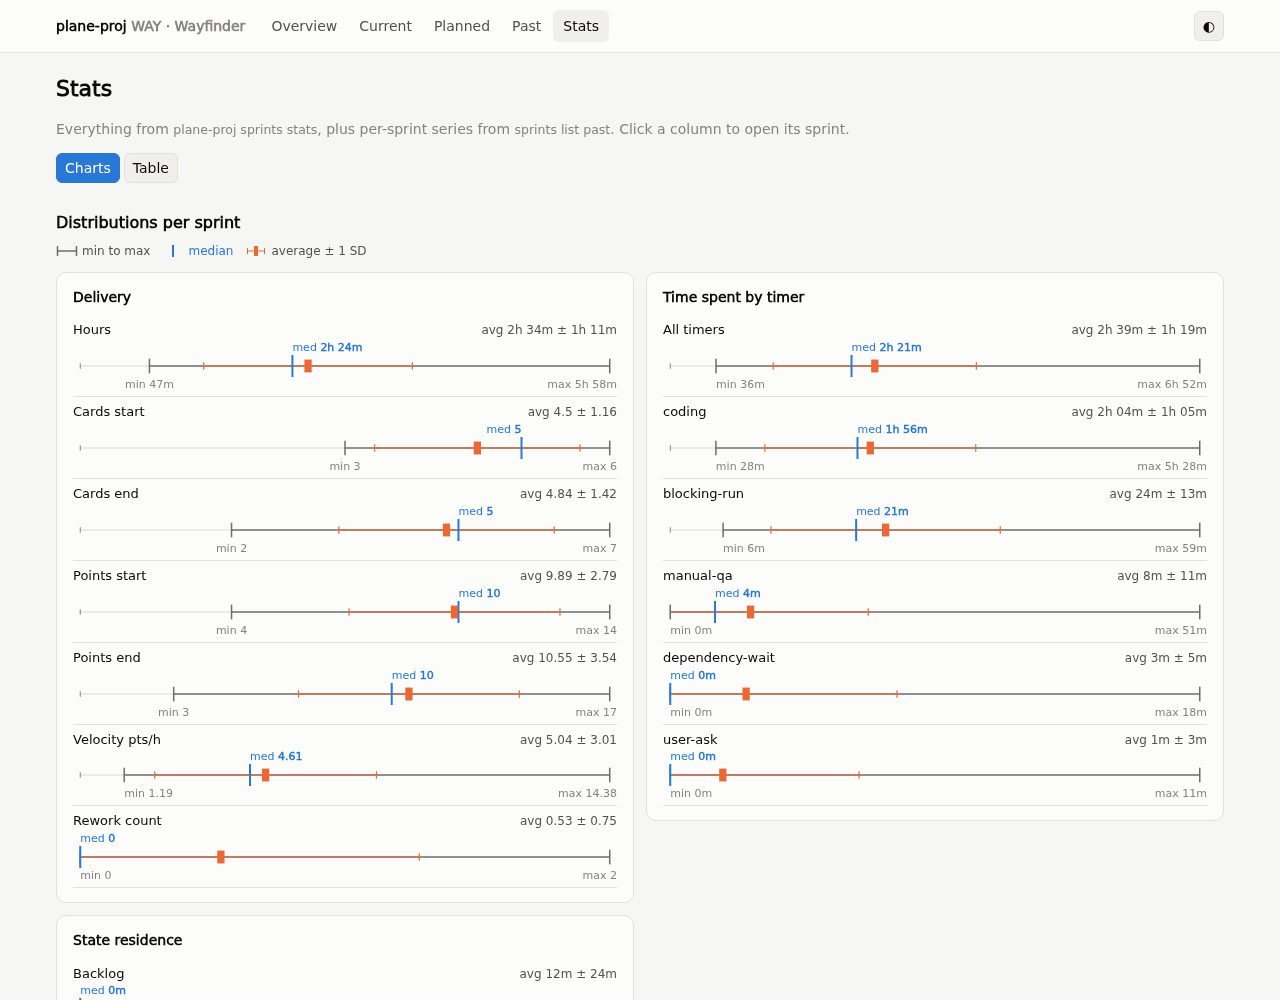
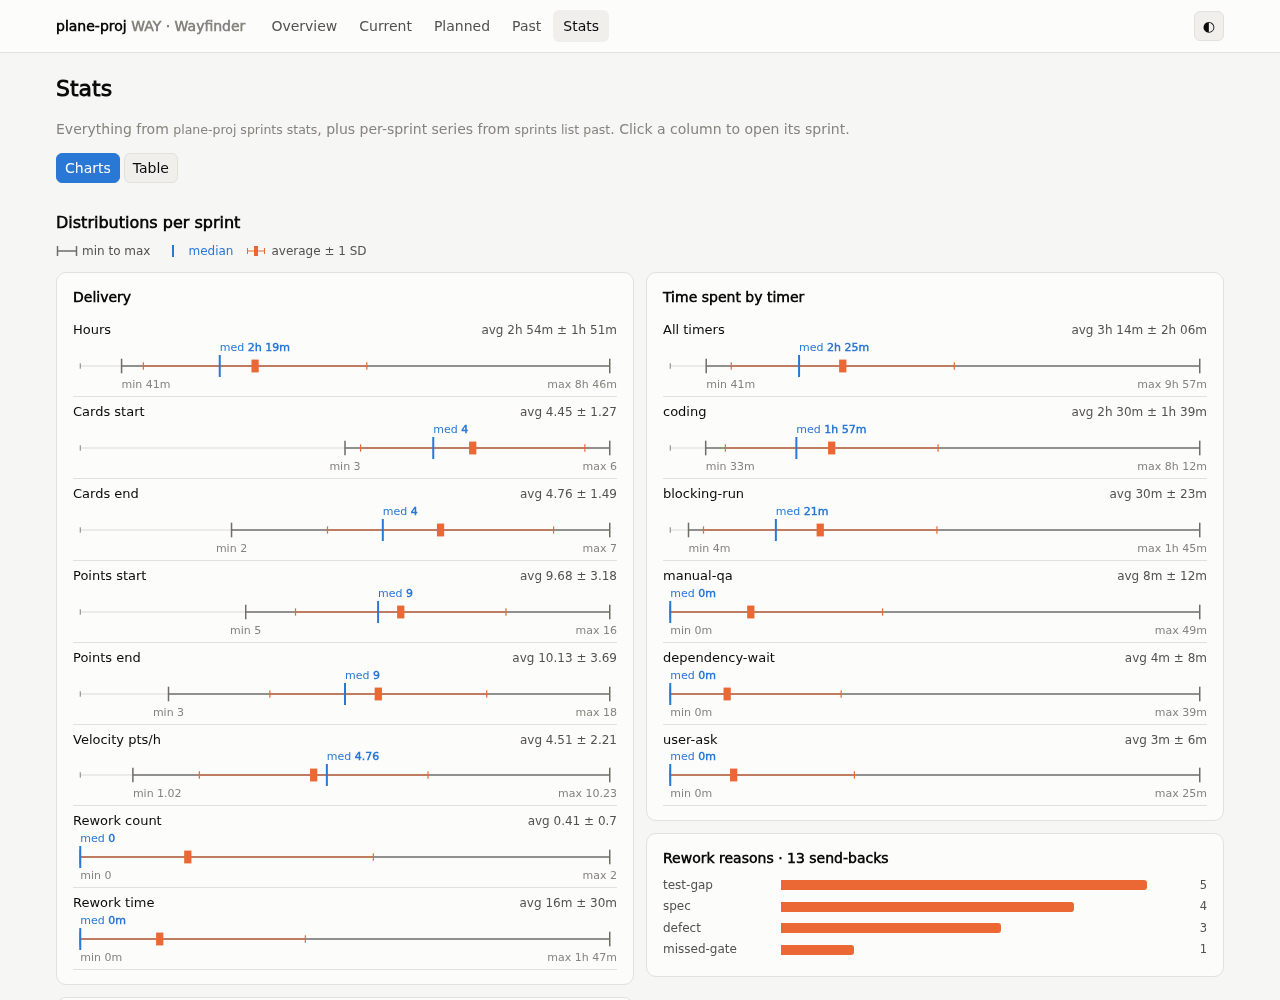
feat: show dependencies and rework cost on the sprint dashboard
The dashboard now surfaces what the new telemetry and dependency reports
measure:

- Current board cards list the unfinished cards they wait on.
- The Planned page has a Dependencies panel that, on request, shows open
  work, the critical path, the speedup ceiling, ready and blocked counts,
  and the longest chain. It runs on request because it reads every
  planned card's relations.
- Current status, past sprint detail, and Stats show rework time and
  reasons; Stats adds a rework time distribution and a reasons panel.

web.make_server now takes a route table; /api/dependencies joins
/api/sprints and /api/version. A page refresh reads blockers only for
current cycles. Screenshots are refreshed from the invented demo
project.

Verification: the web command test covers card blockers, current-only
facts on refresh, and the dependencies route; route tests use the new
table. Every screen rendered against demo data without browser errors.
pytest, ruff check, rumdl check and nix build .#plane-proj pass.
Version 0.21.2.

diff --git a/src/plane_proj/web.html b/src/plane_proj/web.html
@@ -157,6 +157,13 @@ function boot(data) {
   $('#projname').textContent = `${PROJECT} · ${data.project.name}`;
 }
 const cardsFor = s => DATA.cards[s.sprint] || [];
+// Open blockers of a card, shown only while the card itself is unfinished.
+function waitsOn(c) {
+  const open = (c.blocked_by || []).filter(b => !TERMINAL.has(b.state));
+  if (!open.length || TERMINAL.has(c.state)) return '';
+  return `<div class="meta"><span class="flag" data-tip="Blocked until these are Done">waits on ${open.map(b => `${esc(b.ref)} (${esc(b.state)})`).join(', ')}</span></div>`;
+}
+const reasonText = r => Object.entries(r || {}).map(([k, v]) => `${k} ${v}`).join(' · ');
 
 // ===== helpers =====
 const $ = q => document.querySelector(q);
@@ -310,13 +317,13 @@ V.currentOne = s => {
   <div class="board">${STATES.map(st => `<div class="colh"><i style="background:${stC[st]}"></i>${st} <span class="muted">${cards.filter(c => c.state === st).length}</span></div>`).join('')}
     ${STATES.map(st => `<div class="colb">${cards.filter(c => c.state === st).map(c => `<div class="wi" style="border-left-color:${stC[st]}">
       <div class="row"><a class="mono" href="${esc(c.url)}" target="_blank" rel="noopener">${esc(c.ref)}</a><span class="sp"></span>${POINTS ? `<span class="pill">${c.points} pt</span>` : ''}</div>
-      <div>${esc(c.title)}</div></div>`).join('')}</div>`).join('')}</div>
+      <div>${esc(c.title)}</div>${waitsOn(c)}</div>`).join('')}</div>`).join('')}</div>
 
   <h2>Status</h2>
   <div class="grid g4">
     ${POINTS ? `<div class="card kpi"><div class="v">${num(vel, 2)}<span class="muted small"> pts/h</span></div><div class="l">Velocity${MEDV ? ` · median ${num(MEDV, 2)}` : ''}</div>
       ${hbar(vel, Math.max(vel, MEDV || 0) * 1.2 || 1, 'now', 'var(--c1)')}${MEDV ? hbar(MEDV, Math.max(vel, MEDV) * 1.2, 'median', 'var(--muted)') : ''}</div>` : ''}
-    <div class="card kpi"><div class="v">${t.rework_count ?? 0}</div><div class="l">Rework events · ${t.reworked_cards ?? 0} of ${t.rework_observed_cards ?? 0} cards reworked</div></div>
+    <div class="card kpi"><div class="v">${t.rework_count ?? 0}</div><div class="l">Rework events · ${t.reworked_cards ?? 0} of ${t.rework_observed_cards ?? 0} cards reworked${t.rework_minutes ? ` · ${fmtMin(t.rework_minutes)} reworking` : ''}${reasonText(t.rework_reasons) ? `<br>${reasonText(t.rework_reasons)}` : ''}</div></div>
     <div class="card kpi"><div class="v">${fmtMin(active)}</div><div class="l">Active time (In Progress ${fmtMin(t.active_minutes?.['In Progress'])} · Verifying ${fmtMin(t.active_minutes?.['Verifying'])})</div></div>
     <div class="card kpi"><div class="v">${openT.length || 'None'}</div><div class="l">Open timers ${openT.map(([k, v]) => `· ${k} ${fmtMin(v)}`).join(' ')}</div></div>
   </div>
@@ -336,6 +343,7 @@ V.planned = () => {
   <p class="muted">${planned.length} sprints in execution order · ${planned.reduce((a, s) => a + s.cards, 0)} cards${POINTS ? ` · ${planned.reduce((a, s) => a + s.points, 0)} pts` : ''}</p>
   ${MEDV ? `<div class="note" style="border-left-color:var(--accent)">Estimates assume <b>${num(MEDV, 2)} pts/h</b>: the median velocity of ${past.length} completed sprints.
     Hours = points ÷ ${num(MEDV, 2)}.</div>` : ''}
+  <div class="card" id="deps" style="margin-bottom:12px">${depsView()}</div>
   <div class="card"><div class="plan">
     <div class="hd">#</div><div class="hd">Sprint and goal</div><div class="hd wide">Cards</div><div class="hd wide">${POINTS ? 'Points' : ''}</div><div class="hd wide">${MEDV ? 'Estimate' : ''}</div>
     ${planned.map(s => { const est = MEDV ? s.points / MEDV : null;
@@ -345,6 +353,32 @@ V.planned = () => {
       <div class="wide">${POINTS ? `${segbar(s.points, s.points, maxPts)}<div class="muted small" style="margin-top:3px">${s.points} pts</div>` : ''}</div>
       <div class="wide">${est != null ? hbar(est, maxEst, fmtH(est), 'var(--c3)', { tipText: `${s.points} pts ÷ ${num(MEDV, 2)} pts/h` }) : ''}</div>`; }).join('')}
   </div></div>`;
+};
+
+// The critical path reads every planned card's relations, so it runs on request.
+let DEPS = null, depsState = 'idle';
+function depsView() {
+  if (depsState === 'loading') return '<h3>Dependencies</h3><p class="muted">Reading card dependencies…</p>';
+  if (depsState === 'error') return `<h3>Dependencies</h3><p class="flag">${esc(DEPS)}</p>`;
+  if (!DEPS) return `<div class="row"><h3 style="margin:0">Dependencies</h3><span class="sp"></span>
+    <button onclick="loadDeps()">Find critical path</button></div>
+    <p class="muted small" style="margin:6px 0 0">Reads every open card's blockers in current and planned sprints.</p>`;
+  const p = DEPS.critical_path, unit = p.unit === 'points' ? 'pts' : 'cards';
+  return `<div class="row"><h3 style="margin:0">Dependencies</h3><span class="sp"></span><button onclick="loadDeps()">Refresh</button></div>
+    <div class="grid g4" style="margin:10px 0">
+      <div class="kpi"><div class="v">${p.total}<span class="muted small"> ${unit}</span></div><div class="l">Open work</div></div>
+      <div class="kpi"><div class="v">${p.critical_path}<span class="muted small"> ${unit}</span></div><div class="l">Critical path</div></div>
+      <div class="kpi"><div class="v">${p.speedup_ceiling == null ? '—' : p.speedup_ceiling + '×'}</div><div class="l">Speedup ceiling: open work ÷ critical path</div></div>
+      <div class="kpi"><div class="v">${DEPS.ready.length}</div><div class="l">Ready to start · ${DEPS.blocked.length} blocked</div></div>
+    </div>
+    <div class="small t2">Longest chain: ${p.chain.map(c => `<span class="pill">${esc(c.ref)} · #${c.sprint}</span>`).join(' → ') || '—'}</div>`;
+}
+window.loadDeps = () => {
+  depsState = 'loading'; $('#deps').innerHTML = depsView();
+  getJSON('api/dependencies')
+    .then(d => { DEPS = d; depsState = 'idle'; })
+    .catch(e => { DEPS = e.message; depsState = 'error'; })
+    .finally(() => { const el = $('#deps'); if (el) el.innerHTML = depsView(); });
 };
 
 V.plannedDetail = s => `<p><a href="#/planned">← Planned</a></p>
@@ -396,7 +430,7 @@ V.pastDetail = s => {
     ${POINTS ? `<div class="card kpi"><div class="v">${num(s.velocity, 2)}<span class="muted small"> pts/h</span></div><div class="l">Velocity · median ${num(MEDV, 2)}</div></div>` : ''}
   </div>
   ${t ? `<div class="grid g2"><div class="card"><h3>State residence (card-time)</h3>${res.map(([k, v]) => `<div class="row small"><span style="width:90px" class="t2">${k}</span><div style="flex:1">${hbar(v, mx, fmtMin(v), stC[k] || 'var(--muted)')}</div></div>`).join('')}</div>
-    <div class="card"><h3>Timers · rework ${t.rework_count} on ${t.reworked_cards} cards</h3>${exec.map(([k, v]) => `<div class="row small"><span style="width:110px" class="t2">${k}</span><div style="flex:1">${hbar(v, mx, fmtMin(v), 'var(--c1)')}</div></div>`).join('') || '<span class="muted">No timers.</span>'}</div></div>`
+    <div class="card"><h3>Timers · rework ${t.rework_count} on ${t.reworked_cards} cards${t.rework_minutes ? ` · ${fmtMin(t.rework_minutes)} reworking` : ''}</h3>${reasonText(t.rework_reasons) ? `<p class="small t2" style="margin:-4px 0 8px">Reasons: ${reasonText(t.rework_reasons)}</p>` : ''}${exec.map(([k, v]) => `<div class="row small"><span style="width:110px" class="t2">${k}</span><div style="flex:1">${hbar(v, mx, fmtMin(v), 'var(--c1)')}</div></div>`).join('') || '<span class="muted">No timers.</span>'}</div></div>`
     : '<p class="muted">No timing snapshots for this sprint.</p>'}
   <h2>Delivered</h2><div class="card prose">${esc(s.delivered)}</div>
   <h2>Retrospective</h2><div class="card prose">${esc(s.retrospective) || '<span class="muted">None recorded.</span>'}</div>
@@ -435,6 +469,14 @@ const stripLegend = `<div class="legend" style="margin-bottom:8px">
   <span>${lg('<line x1="1.5" y1="6" x2="20.5" y2="6" stroke="var(--range)" stroke-width="1.5"/><line x1="1.5" y1="1" x2="1.5" y2="11" stroke="var(--range)" stroke-width="1.5"/><line x1="20.5" y1="1" x2="20.5" y2="11" stroke="var(--range)" stroke-width="1.5"/>')}min to max</span>
   <span style="color:var(--median)">${lg('<line x1="11" y1="0" x2="11" y2="12" stroke="var(--median)" stroke-width="2"/>')}median</span>
   <span>${lg('<line x1="2" y1="6" x2="20" y2="6" stroke="var(--c2)"/><line x1="2.5" y1="3" x2="2.5" y2="9" stroke="var(--c2)"/><line x1="19.5" y1="3" x2="19.5" y2="9" stroke="var(--c2)"/><rect x="9" y="1" width="4" height="10" fill="var(--c2)"/>')}average ± 1 SD</span></div>`;
+// Send-backs by reason, as bars against the most common reason.
+function reasonsCard(reasons) {
+  const rows = Object.entries(reasons || {}).sort((a, b) => b[1] - a[1]);
+  if (!rows.length) return '';
+  const max = rows[0][1], total = rows.reduce((a, r) => a + r[1], 0);
+  return `<div class="card"><h3>Rework reasons · ${total} send-backs</h3>${rows.map(([k, v]) =>
+    `<div class="row small" style="margin:4px 0"><span style="width:110px" class="t2">${esc(k)}</span><div style="flex:1">${hbar(v, max, String(v), 'var(--c2)')}</div></div>`).join('')}</div>`;
+}
 const statsRows = (o, fmt, order) => (order || Object.keys(o)).filter(k => o[k]).map(k => strip(k, o[k], fmt)).join('');
 const TIMERS = ['coding', 'blocking-run', 'dependency-wait', 'user-ask', 'manual-qa'];
 let statTab = 'charts';
@@ -457,12 +499,13 @@ V.stats = () => {
   <h2>Distributions per sprint</h2><div style="margin:-2px 0 12px">${stripLegend}</div>
   <div class="dist"><div class="stack">
     <div class="card"><h3>Delivery</h3><div class="strip">${strip('Hours', ST.hours, v => fmtH(v))}${strip('Cards start', ST.cards_start, n2)}${strip('Cards end', ST.cards_end, n2)}
-      ${strip('Points start', ST.points_start, n2)}${strip('Points end', ST.points_end, n2)}${strip('Velocity pts/h', ST.velocity, n2)}${strip('Rework count', T.rework.count, n2)}</div></div>
+      ${strip('Points start', ST.points_start, n2)}${strip('Points end', ST.points_end, n2)}${strip('Velocity pts/h', ST.velocity, n2)}${strip('Rework count', T.rework.count, n2)}${strip('Rework time', T.rework.minutes, minFmt)}</div></div>
     <div class="card"><h3>State residence</h3><div class="strip">${statsRows(T.residence_minutes, minFmt, ['Backlog', 'Todo', 'In Progress', 'Verifying'])}
       ${strip('Active = In Progress + Verifying', T.active_minutes_total, minFmt)}</div></div>
     </div>
-    <div class="card"><h3>Time spent by timer</h3><div class="strip">${strip('All timers', T.execution_minutes_total, minFmt)}
+    <div class="stack"><div class="card"><h3>Time spent by timer</h3><div class="strip">${strip('All timers', T.execution_minutes_total, minFmt)}
       ${statsRows(T.execution_minutes, minFmt, Object.keys(T.execution_minutes).sort((a, b) => T.execution_minutes[b].average - T.execution_minutes[a].average))}</div></div>
+    ${reasonsCard(T.rework.reasons)}</div>
   </div>
   <h2>Per sprint, oldest to newest</h2>
   ${POINTS ? `  <div class="card"><h3>Points: original, added, removed</h3>${colChart({ data: past, stacks: [

diff --git a/src/plane_proj/web.py b/src/plane_proj/web.py
@@ -2,9 +2,11 @@
 
 The page is one static file; `/api/sprints` returns the `sprints list --json
 --all` payload plus the facts the page draws that the listing lacks: current
-cycle cards and Plane links. `/api/version` changes whenever the register file
-does, so the page polls it and reloads the payload only then. Nothing here
-writes to the register or the board.
+cycle cards with their blockers, and Plane links. `/api/version` changes
+whenever the register file does, so the page polls it and reloads the payload
+only then. `/api/dependencies` runs the critical-path and ready reports on
+request, because they read every planned card's relations. Nothing here writes
+to the register or the board.
 """
 
 from __future__ import annotations
@@ -45,6 +47,21 @@ def build_payload(
     }
 
 
+def with_blockers(
+    cards: list[dict[str, Any]], facts: dict[str, Any],
+) -> list[dict[str, Any]]:
+    """Each card with the reference and state of every card it waits on."""
+    states = facts["states"]
+    return [
+        card | {"blocked_by": [
+            dict(zip(("ref", "state"),
+                     states.get(blocker, (blocker, "unknown")), strict=True))
+            for blocker in facts["blocked_by"].get(card["id"], [])
+        ]}
+        for card in cards
+    ]
+
+
 def page() -> str:
     return files("plane_proj").joinpath("web.html").read_text(encoding="utf-8")
 
@@ -60,10 +77,12 @@ def register_version(database: Path) -> str:
 
 
 def make_server(
-    host: str, port: int, load: Callable[[], dict[str, Any]],
-    version: Callable[[], str],
+    host: str, port: int, routes: dict[str, Callable[[], dict[str, Any]]],
 ) -> HTTPServer:
-    """A single-threaded server: board reads never run concurrently."""
+    """A single-threaded server: board reads never run concurrently.
+
+    `routes` maps each JSON path to the function that builds its body.
+    """
     html = page().encode()
 
     class Handler(BaseHTTPRequestHandler):
@@ -71,12 +90,9 @@ def make_server(
             path = self.path.split("?", 1)[0]
             if path == "/":
                 self._send(200, "text/html; charset=utf-8", html)
-            elif path == "/api/version":
-                body = json.dumps({"version": version()}).encode()
-                self._send(200, "application/json", body)
-            elif path == "/api/sprints":
+            elif path in routes:
                 try:
-                    body = json.dumps(load()).encode()
+                    body = json.dumps(routes[path]()).encode()
                 except PlaneProjError as error:
                     self._error(str(error))
                     return

diff --git a/tests/test_sprints.py b/tests/test_sprints.py
@@ -1498,6 +1498,18 @@ def test_web_serves_the_listing_with_live_cycle_cards_and_links(
         "id": f"card-{cycle_id}", "ref": "DEMO-1", "title": "Ship it",
         "state": "Todo", "points": 3,
     }]
+    facts_read: list[dict[int, str]] = []
+
+    def dependency_facts(cycles):
+        facts_read.append(dict(cycles))
+        return {
+            "cards": [{"id": "card-3", "ref": "DEMO-1", "title": "Ship it",
+                       "state": "Todo", "points": 3, "sprint": 3}],
+            "blocked_by": {"card-3": ["other"]},
+            "states": {"other": ("DEMO-9", "In Progress")},
+        }
+
+    sprint_board.dependency_facts = dependency_facts
     served: dict[str, object] = {}
 
     class Server:
@@ -1509,8 +1521,10 @@ def test_web_serves_the_listing_with_live_cycle_cards_and_links(
         def server_close(self) -> None:
             served["closed"] = True
 
-    def make_server(host, port, load, version):
-        served.update(host=host, port=port, load=load, version=version)
+    def make_server(host, port, routes):
+        served.update(host=host, port=port, load=routes["/api/sprints"],
+                      version=lambda: routes["/api/version"]()["version"],
+                      dependencies=routes["/api/dependencies"])
         return Server()
 
     monkeypatch.setattr("plane_proj.web.make_server", make_server)
@@ -1528,7 +1542,14 @@ def test_web_serves_the_listing_with_live_cycle_cards_and_links(
     assert payload["cards"] == {"3": [{
         "id": "card-3", "ref": "DEMO-1", "title": "Ship it", "state": "Todo",
         "points": 3, "url": board + "card-3",
+        "blocked_by": [{"ref": "DEMO-9", "state": "In Progress"}],
     }]}
+    # The page refresh reads current sprints' blockers only.
+    assert facts_read == [{3: "3"}]
+    found = served["dependencies"]()
+    assert facts_read[-1] == {3: "3", 4: "4"}
+    assert found["critical_path"]["critical_path"] == 3
+    assert [card["ref"] for card in found["blocked"]] == ["DEMO-1"]
     # The page's live check moves when the register is written.
     before = served["version"]()
     assert invoke(database, "alias", "4", "NEXT").exit_code == 0

diff --git a/src/plane_proj/cli.py b/src/plane_proj/cli.py
@@ -918,11 +918,18 @@ def sprints_web(obj: dict[str, Any], host: str, port: int, plane_url: str) -> No
         listing = _sprint_listing(obj, include_all=True)
         board = obj["root"].board
         project = board.project
-        cards = {
-            sprint.sprint_id: board.sprint_cycle_cards(sprint.cycle_id)
+        current = {
+            sprint.sprint_id: sprint.cycle_id
             for sprint in listing["selected"]
             if sprint.status == sprints_module.STATUS_CURRENT
             and sprint.cycle_id is not None
+        }
+        facts = board.dependency_facts(current)
+        cards = {
+            sprint_id: web_module.with_blockers(
+                board.sprint_cycle_cards(cycle_id), facts
+            )
+            for sprint_id, cycle_id in current.items()
         }
         return web_module.build_payload(
             listing["payload"],
@@ -932,9 +939,22 @@ def sprints_web(obj: dict[str, Any], host: str, port: int, plane_url: str) -> No
             estimates=listing["estimates_enabled"],
         )
 
-    server = web_module.make_server(
-        host, port, load, lambda: web_module.register_version(obj["database"])
-    )
+    def dependencies() -> dict[str, Any]:
+        board = obj["root"].board
+        facts = board.dependency_facts(_open_sprint_cycles(obj))
+        return dependencies_module.ready(facts) | {
+            "critical_path": dependencies_module.critical_path(
+                facts, use_points=board.project.estimates_enabled
+            ),
+        }
+
+    server = web_module.make_server(host, port, {
+        "/api/sprints": load,
+        "/api/version": lambda: {
+            "version": web_module.register_version(obj["database"])
+        },
+        "/api/dependencies": dependencies,
+    })
     click.echo(f"Serving sprints on http://{host}:{server.server_port}/ (Ctrl+C stops)")
     try:
         server.serve_forever()

diff --git a/tests/test_web.py b/tests/test_web.py
@@ -25,7 +25,9 @@ def serve() -> Iterator:
     servers = []
 
     def start(load, version=lambda: "v1"):
-        server = web.make_server("127.0.0.1", 0, load, version)
+        routes = {"/api/sprints": load,
+                  "/api/version": lambda: {"version": version()}}
+        server = web.make_server("127.0.0.1", 0, routes)
         threading.Thread(target=server.serve_forever, daemon=True).start()
         servers.append(server)
         return f"http://127.0.0.1:{server.server_port}"

diff --git a/DESIGN.md b/DESIGN.md
@@ -659,6 +659,12 @@ and two JSON routes from `web.py`:
   same `_sprint_listing` code path, plus the project key and name, the Plane
   board link, and each current cycle's cards (reference, title, state,
   points) from `Board.sprint_cycle_cards`. Every request reads afresh.
+- Each current card carries its blockers' references and states, read
+  through `Board.dependency_facts` for the current cycles only, so a refresh
+  costs one relations request per open current card.
+- `/api/dependencies` runs the `sprints ready` and `sprints critical-path`
+  reports. It reads every planned card's relations, so the page calls it only
+  when the user asks.
 - `/api/version` returns the register file's (and WAL's) modification time
   and size. The page polls it every 2 seconds and refetches `/api/sprints`
   only when it changes, so an idle page makes no Plane requests. A change made
